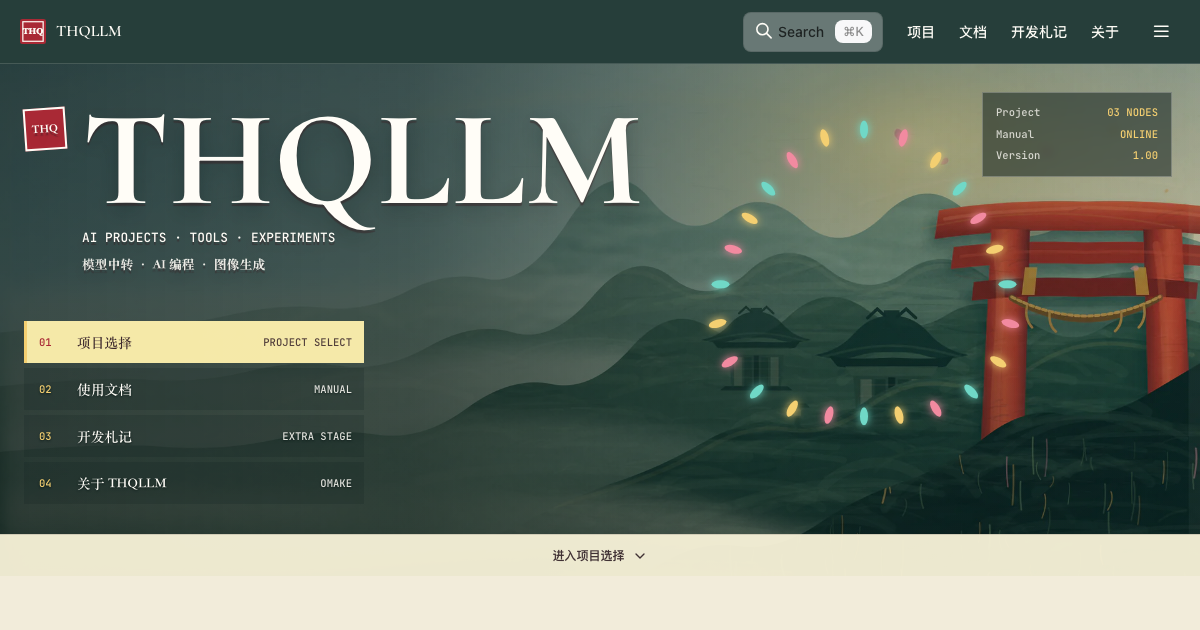
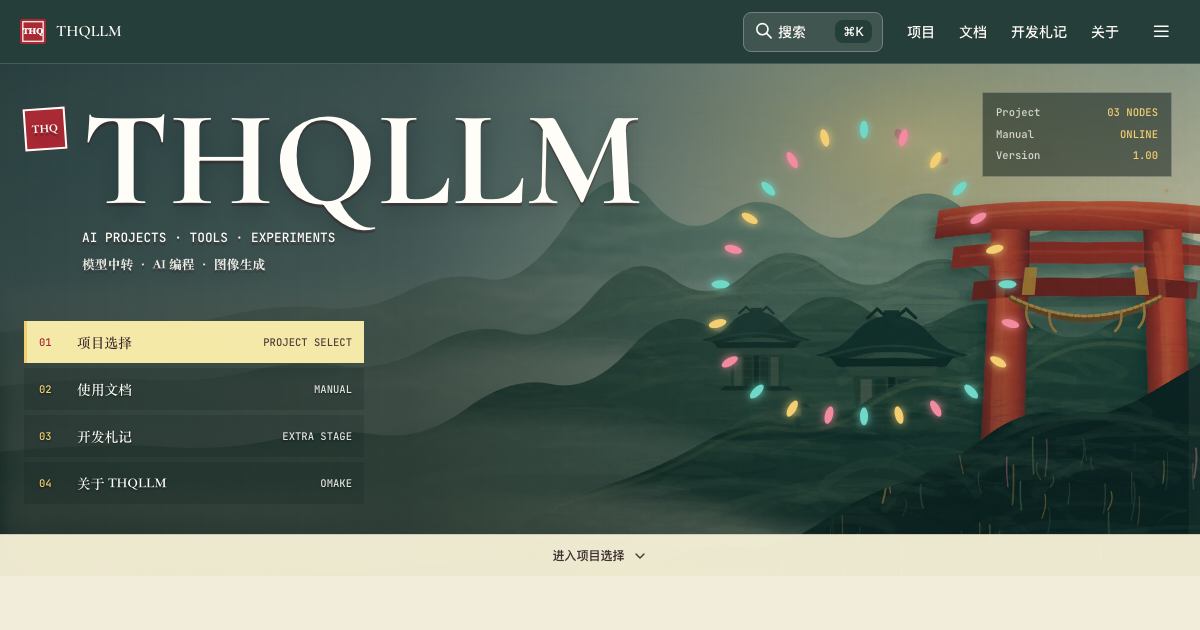
fix: add accessible mobile search trigger

Changed region(s): [[0.6167, 0.0, 0.74, 0.0905]]

diff --git a/theme/tests/SiteSearch.test.tsx b/theme/tests/SiteSearch.test.tsx
@@ -1,0 +1,56 @@
+import { render, screen } from '@testing-library/react';
+import userEvent from '@testing-library/user-event';
+import type { PropsWithChildren } from 'react';
+import { describe, expect, it, vi } from 'vitest';
+import { SiteSearch } from '../components/SiteSearch';
+
+vi.mock('@rspress/core/runtime', () => ({
+  NoSSR: ({ children }: PropsWithChildren) => children,
+}));
+
+vi.mock('@rspress/core/theme-original', () => ({
+  IconSearch: () => <svg aria-hidden="true" />,
+  SearchButton: ({ setFocused }: { setFocused: (focused: boolean) => void }) => (
+    <button type="button" aria-label="桌面搜索" onClick={() => setFocused(true)}>
+      桌面搜索
+    </button>
+  ),
+  SearchPanel: ({
+    focused,
+    setFocused,
+  }: {
+    focused: boolean;
+    setFocused: (focused: boolean) => void;
+  }) =>
+    focused ? (
+      <div role="dialog" aria-label="站点搜索">
+        <button type="button" onClick={() => setFocused(false)}>
+          关闭搜索
+        </button>
+      </div>
+    ) : null,
+  SvgWrapper: () => <svg aria-hidden="true" />,
+}));
+
+describe('SiteSearch', () => {
+  it('provides a semantic mobile trigger for pointer and keyboard users', async () => {
+    const user = userEvent.setup();
+    render(<SiteSearch />);
+
+    const mobileSearch = screen.getByRole('button', { name: /^搜索$/ });
+    expect(mobileSearch).toHaveAttribute('type', 'button');
+
+    await user.click(mobileSearch);
+    expect(screen.getByRole('dialog', { name: '站点搜索' })).toBeInTheDocument();
+
+    await user.click(screen.getByRole('button', { name: '关闭搜索' }));
+    mobileSearch.focus();
+    await user.keyboard('{Enter}');
+    expect(screen.getByRole('dialog', { name: '站点搜索' })).toBeInTheDocument();
+
+    await user.click(screen.getByRole('button', { name: '关闭搜索' }));
+    mobileSearch.focus();
+    await user.keyboard(' ');
+    expect(screen.getByRole('dialog', { name: '站点搜索' })).toBeInTheDocument();
+  });
+});

diff --git a/theme/components/SiteSearch.module.css b/theme/components/SiteSearch.module.css
@@ -1,0 +1,21 @@
+:global(.rp-nav__right .rp-search-button--mobile) {
+  display: none;
+}
+
+.mobileButton {
+  display: none;
+  align-items: center;
+  justify-content: center;
+  padding: 0;
+  border: 0;
+  color: inherit;
+  background: transparent;
+  font: inherit;
+  cursor: pointer;
+}
+
+@media (max-width: 768px) {
+  .mobileButton {
+    display: flex;
+  }
+}

diff --git a/theme/components/SiteSearch.tsx b/theme/components/SiteSearch.tsx
@@ -1,6 +1,7 @@
 import { NoSSR } from '@rspress/core/runtime';
-import { SearchButton, SearchPanel } from '@rspress/core/theme-original';
+import { IconSearch, SearchButton, SearchPanel, SvgWrapper } from '@rspress/core/theme-original';
 import { useEffect, useRef, useState } from 'react';
+import styles from './SiteSearch.module.css';
 
 export const OPEN_SEARCH_EVENT = 'thqllm:open-search';
 
@@ -30,6 +31,14 @@ export function SiteSearch() {
   return (
     <>
       <SearchButton setFocused={setFocused} />
+      <button
+        className={styles.mobileButton}
+        type="button"
+        aria-label="搜索"
+        onClick={() => setFocused(true)}
+      >
+        <SvgWrapper icon={IconSearch} aria-hidden="true" />
+      </button>
       <NoSSR>
         <SearchPanel focused={focused} setFocused={setFocused} />
       </NoSSR>

diff --git a/tests/e2e/docs.spec.ts b/tests/e2e/docs.spec.ts
@@ -49,7 +49,7 @@ test('FluctGraph documentation uses the Chinese Rspress shell', async ({ page, i
   if (isMobile) {
     await expect(page.getByRole('button', { name: '菜单', exact: true })).toBeVisible();
     await expect(page.getByRole('button', { name: '目录', exact: true })).toBeVisible();
-    await page.keyboard.press('ControlOrMeta+k');
+    await page.getByRole('button', { name: '搜索', exact: true }).click();
   } else {
     const searchButton = page.getByRole('button', { name: /^搜索(?:\s|$)/ });
     await expect(searchButton).toBeVisible();